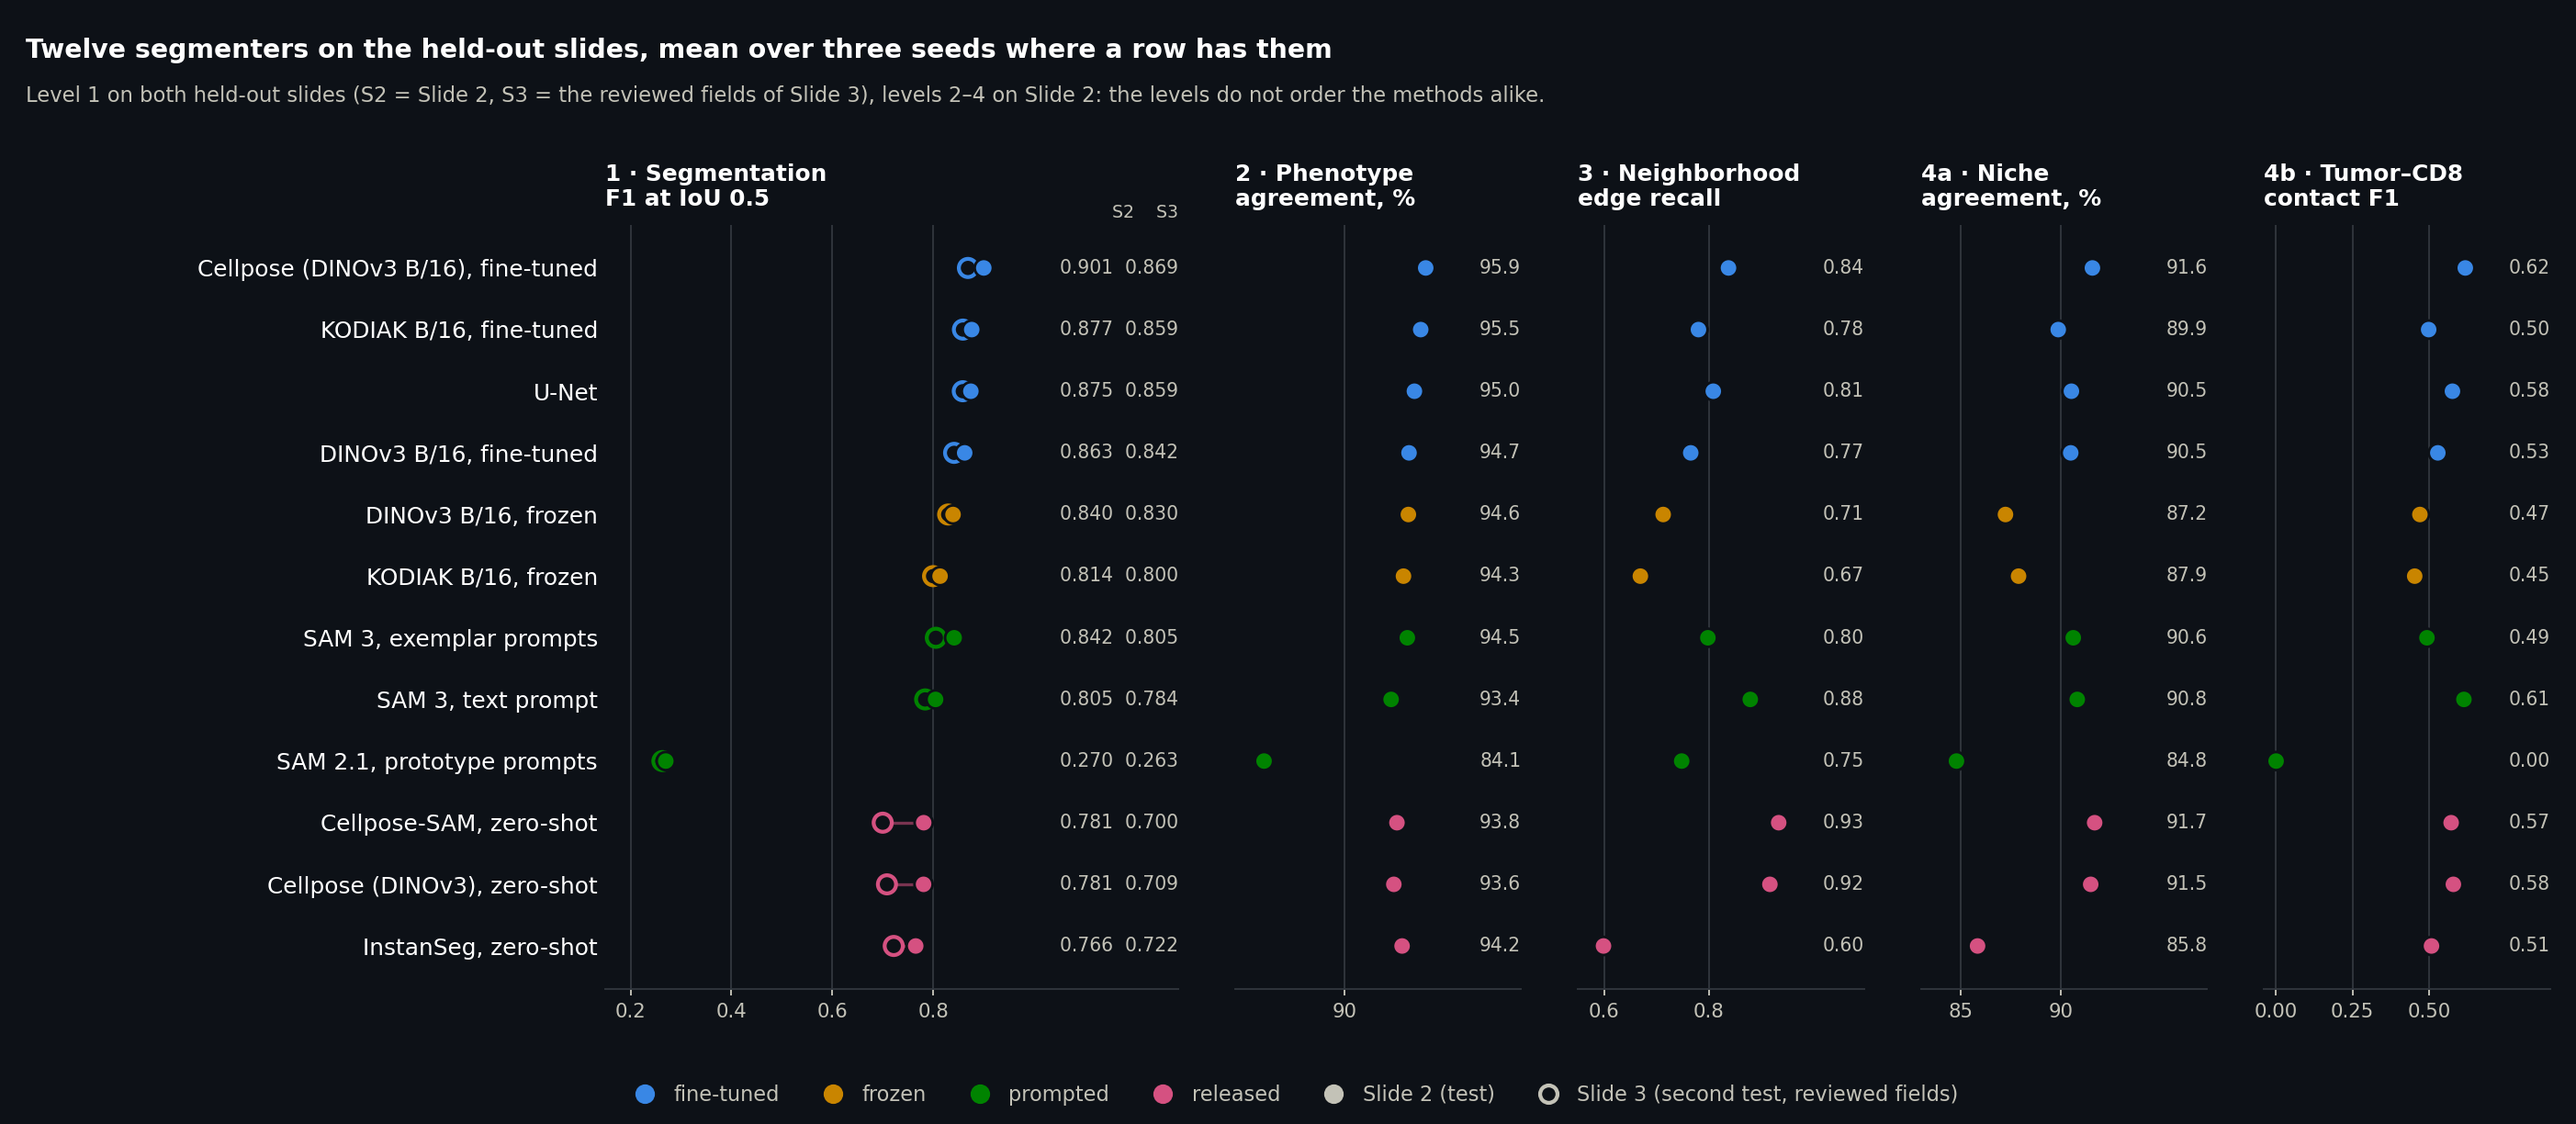
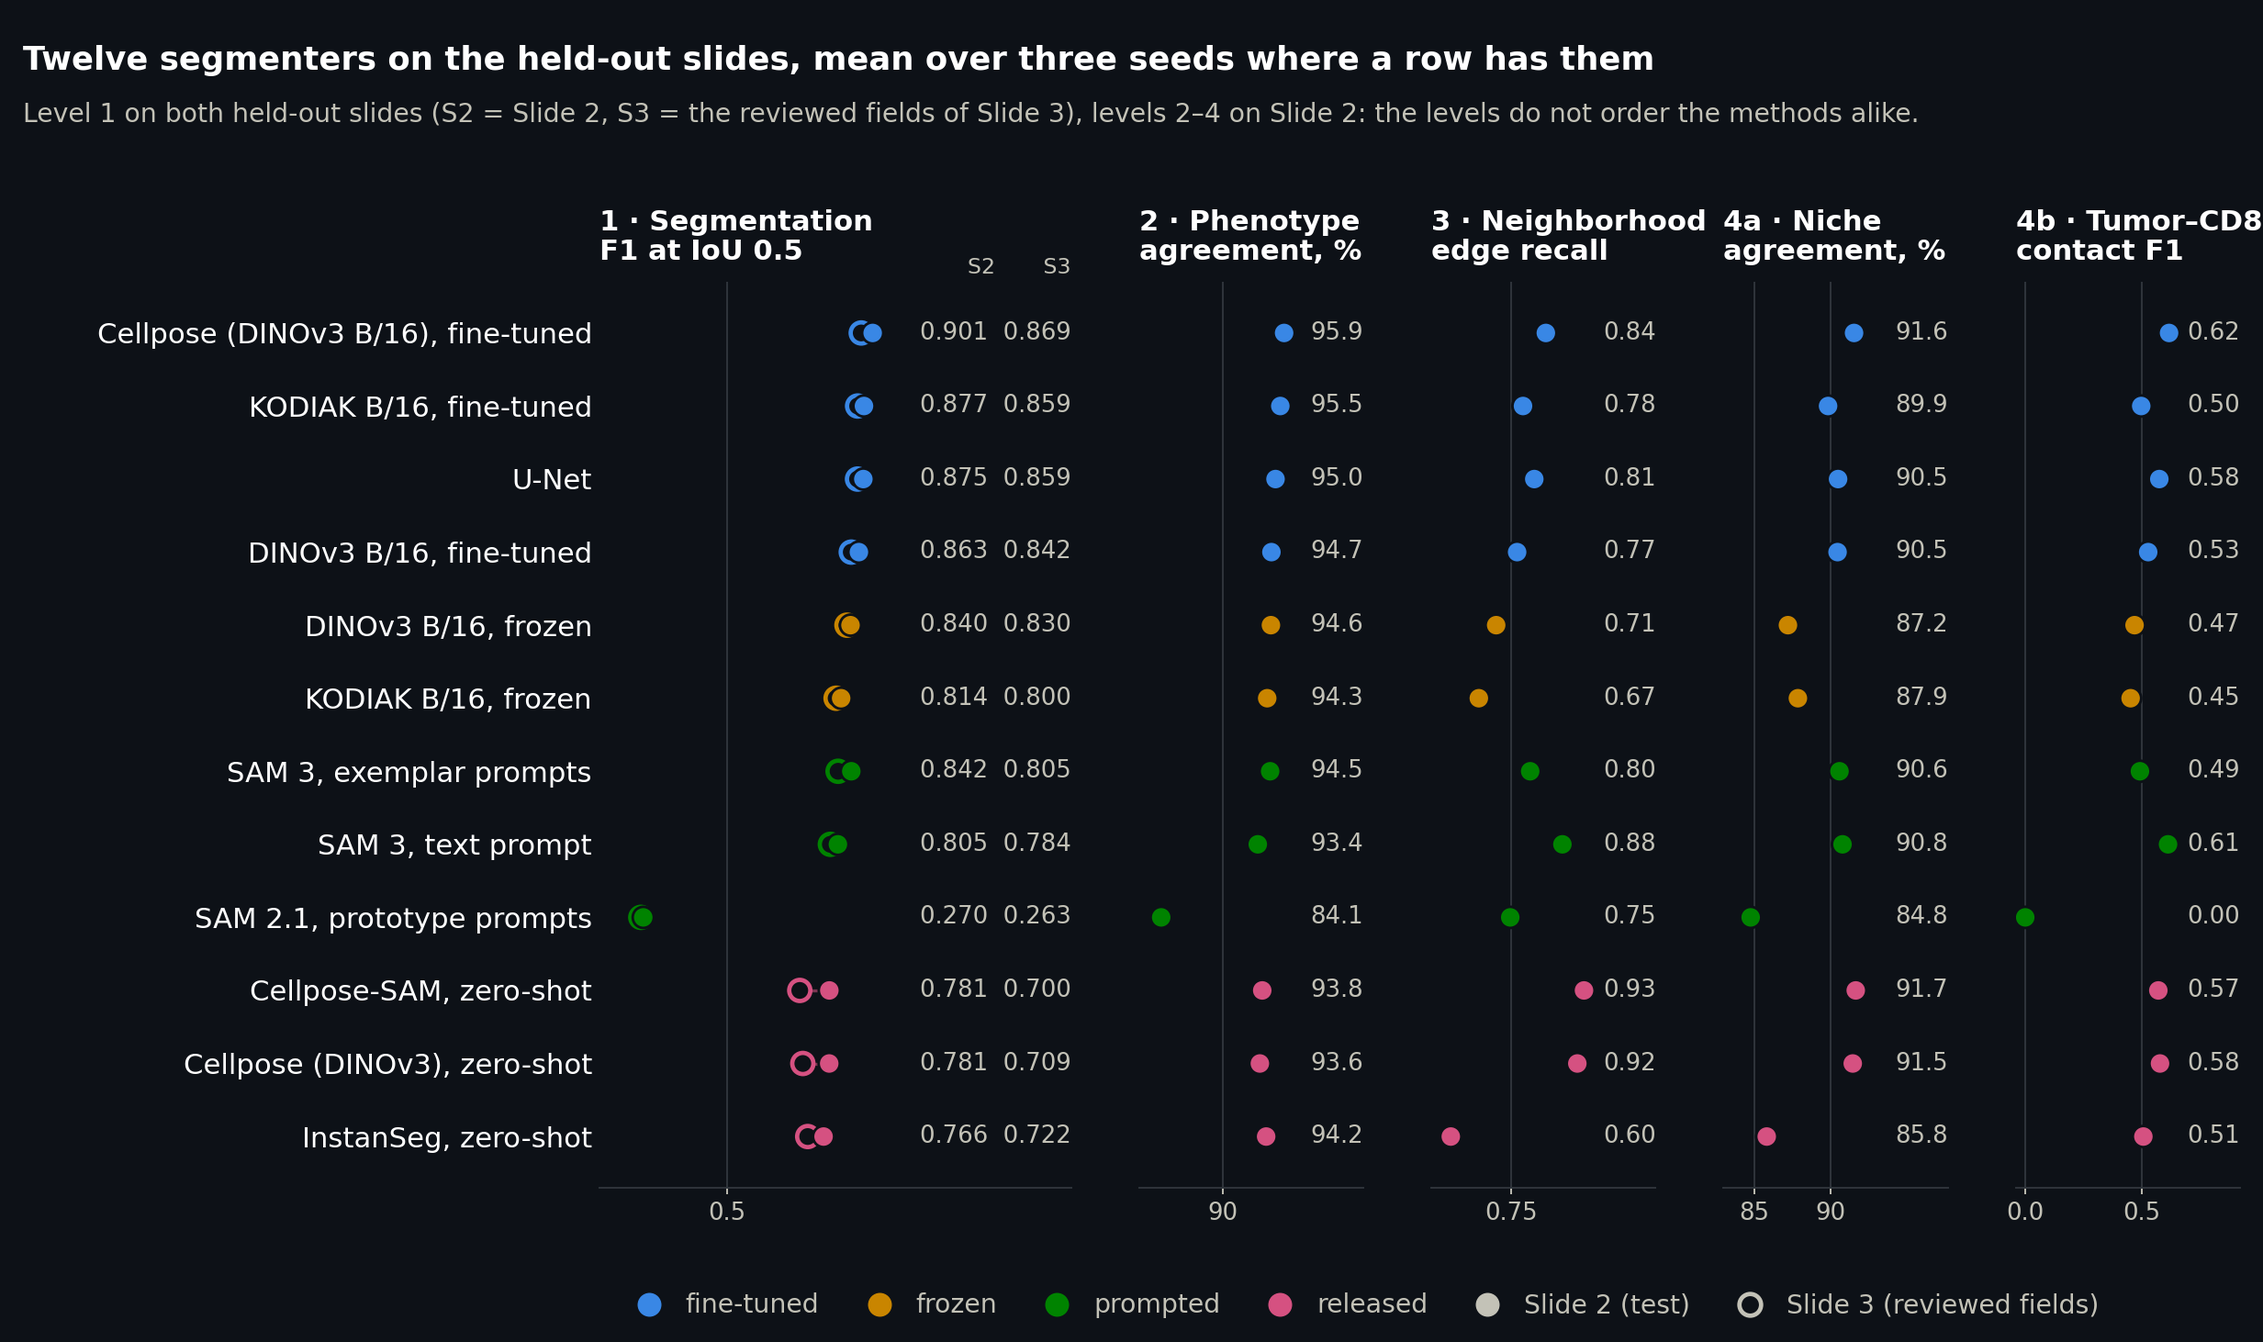
README: grouped data tables; results figure at larger type

diff --git a/scripts/figure_readme_results.py b/scripts/figure_readme_results.py
@@ -53,54 +53,54 @@ def load():
 
 def draw(d, mode):
     t = THEME[mode]
-    plt.rcParams.update({"font.family": "DejaVu Sans", "font.size": 10.5, "axes.edgecolor": t["grid"], "axes.linewidth": 0.8,
+    plt.rcParams.update({"font.family": "DejaVu Sans", "font.size": 13, "axes.edgecolor": t["grid"], "axes.linewidth": 0.8,
                          "xtick.color": t["muted"], "ytick.color": t["ink"], "axes.labelcolor": t["muted"], "text.color": t["ink"]})
     cols = [("f1_s2", "1 · Segmentation\nF1 at IoU 0.5", (0.15, 0.95), "{:.3f}"), ("pheno", "2 · Phenotype\nagreement, %", (82, 98), "{:.1f}"),
             ("edges", "3 · Neighborhood\nedge recall", (0.55, 0.97), "{:.2f}"), ("niche", "4a · Niche\nagreement, %", (83, 94), "{:.1f}"),
             ("contact", "4b · Tumor–CD8\ncontact F1", (-0.04, 0.68), "{:.2f}")]
-    fig = plt.figure(figsize=(16.5, 7.2), dpi=170); fig.patch.set_facecolor(t["surface"])
-    widths = [2.0, 1, 1, 1, 1]; left = 0.235; gap = 0.022; avail = 0.99 - left - gap * (len(cols) - 1); tot = sum(widths)
+    fig = plt.figure(figsize=(14.5, 8.6), dpi=170); fig.patch.set_facecolor(t["surface"])
+    widths = [2.1, 1, 1, 1, 1]; left = 0.265; gap = 0.03; avail = 0.99 - left - gap * (len(cols) - 1); tot = sum(widths)
     y = np.arange(len(d))[::-1]
     x0 = left
     for k, (col, title, lim, fmt) in enumerate(cols):
         w = avail * widths[k] / tot
-        ax = fig.add_axes([x0, 0.12, w, 0.68]); x0 += w + gap
+        ax = fig.add_axes([x0, 0.115, w, 0.675]); x0 += w + gap
         ax.set_facecolor(t["surface"])
         for sp in ("top", "right", "left"): ax.spines[sp].set_visible(False)
         ax.grid(axis="x", color=t["grid"], lw=0.8, zorder=0); ax.set_axisbelow(True)
-        span = lim[1] - lim[0]; pad = 0.42 if col == "f1_s2" else 0.30                     # a value column at the right of each panel
+        span = lim[1] - lim[0]; pad = 0.62 if col == "f1_s2" else 0.34                     # a value column at the right of each panel
         ax.set_xlim(lim[0], lim[1] + pad * span); ax.set_xticks([t for t in ax.get_xticks() if lim[0] <= t <= lim[1]])
         ax.set_ylim(-0.7, len(d) - 0.3); ax.set_yticks(y)
-        ax.set_yticklabels([LABEL[m] for m in d.index] if k == 0 else [""] * len(d), fontsize=10.5)
-        ax.tick_params(axis="y", length=0); ax.tick_params(axis="x", length=3, labelsize=9)
-        ax.set_title(title, loc="left", fontsize=10.5, fontweight="bold", color=t["ink"], pad=9, linespacing=1.15)
+        ax.set_yticklabels([LABEL[m] for m in d.index] if k == 0 else [""] * len(d), fontsize=13)
+        ax.tick_params(axis="y", length=0); ax.tick_params(axis="x", length=3, labelsize=11)
+        ax.set_title(title, loc="left", fontsize=13, fontweight="bold", color=t["ink"], pad=10, linespacing=1.15)
         colors = [t["group"][GROUP[m]] for m in d.index]
         v = d[col].values
         if col == "f1_s2":                                              # slide 2 filled, slide 3 hollow, joined by a hairline
             v3 = d["f1_s3"].values
             for yi, a, b, c in zip(y, v, v3, colors):
                 ax.plot([a, b], [yi, yi], color=c, lw=1.4, alpha=0.55, zorder=2)
-            ax.scatter(v3, y, s=70, facecolor=t["surface"], edgecolor=colors, linewidth=1.8, zorder=3)
-            ax.scatter(v, y, s=70, color=colors, edgecolor=t["surface"], linewidth=1.2, zorder=4)
+            ax.scatter(v3, y, s=95, facecolor=t["surface"], edgecolor=colors, linewidth=2.0, zorder=3)
+            ax.scatter(v, y, s=95, color=colors, edgecolor=t["surface"], linewidth=1.2, zorder=4)
             for yi, a, b in zip(y, v, v3):
-                ax.text(lim[1] + pad * span, yi, f"{a:.3f}  {b:.3f}", va="center", ha="right", fontsize=8.6, color=t["muted"])
-            ax.text(lim[1] + pad * span, len(d) - 0.25, "S2    S3", va="bottom", ha="right", fontsize=8, color=t["muted"])
+                ax.text(lim[1] + pad * span, yi, f"{a:.3f}  {b:.3f}", va="center", ha="right", fontsize=11, color=t["muted"])
+            ax.text(lim[1] + pad * span, len(d) - 0.25, "S2       S3", va="bottom", ha="right", fontsize=10, color=t["muted"])
         else:
-            ax.scatter(v, y, s=70, color=colors, edgecolor=t["surface"], linewidth=1.2, zorder=4)
+            ax.scatter(v, y, s=95, color=colors, edgecolor=t["surface"], linewidth=1.2, zorder=4)
             for yi, a in zip(y, v):
-                ax.text(lim[1] + pad * span, yi, fmt.format(a), va="center", ha="right", fontsize=8.6, color=t["muted"])
+                ax.text(lim[1] + pad * span, yi, fmt.format(a), va="center", ha="right", fontsize=11, color=t["muted"])
     # legend: the four groups + the slide markers
     g = t["group"]
-    handles = [Line2D([], [], marker="o", ls="", ms=8, color=g[k], label=k) for k in ("fine-tuned", "frozen", "prompted", "released")]
-    handles += [Line2D([], [], marker="o", ls="", ms=8, color=t["muted"], label="Slide 2 (test)"),
-                Line2D([], [], marker="o", ls="", ms=8, markerfacecolor=t["surface"], markeredgecolor=t["muted"], markeredgewidth=1.8, label="Slide 3 (second test, reviewed fields)")]
-    leg = fig.legend(handles=handles, loc="lower left", bbox_to_anchor=(0.235, 0.0), ncol=6, frameon=False, fontsize=9.5,
-                     handletextpad=0.4, columnspacing=1.6)
+    handles = [Line2D([], [], marker="o", ls="", ms=10, color=g[k], label=k) for k in ("fine-tuned", "frozen", "prompted", "released")]
+    handles += [Line2D([], [], marker="o", ls="", ms=10, color=t["muted"], label="Slide 2 (test)"),
+                Line2D([], [], marker="o", ls="", ms=10, markerfacecolor=t["surface"], markeredgecolor=t["muted"], markeredgewidth=2.0, label="Slide 3 (reviewed fields)")]
+    leg = fig.legend(handles=handles, loc="lower left", bbox_to_anchor=(0.265, 0.0), ncol=6, frameon=False, fontsize=12,
+                     handletextpad=0.4, columnspacing=1.3)
     for txt in leg.get_texts(): txt.set_color(t["muted"])
-    fig.text(0.01, 0.955, "Twelve segmenters on the held-out slides, mean over three seeds where a row has them", fontsize=12,
+    fig.text(0.01, 0.955, "Twelve segmenters on the held-out slides, mean over three seeds where a row has them", fontsize=15,
              fontweight="bold", color=t["ink"], ha="left", va="center")
     fig.text(0.01, 0.915, "Level 1 on both held-out slides (S2 = Slide 2, S3 = the reviewed fields of Slide 3), levels 2–4 on Slide 2: the levels do not order the methods alike.",
-             fontsize=9.6, color=t["muted"], ha="left", va="center")
+             fontsize=12, color=t["muted"], ha="left", va="center")
     fig.savefig(OUT / f"results_{mode}.png", facecolor=t["surface"]); plt.close(fig)
 
 

diff --git a/README.md b/README.md
@@ -103,16 +103,64 @@ positives.
 </table>
 <p align="center"><sub>CD8 red · PanCK green · DAPI blue. Annotated regions outlined by role (grey training, amber validation, magenta test); * = expert-reviewed; 1 mm scale bars.</sub></p>
 
-| Slide | Role under the protocol | Regions | Cells (HALO) | Reviewed | Flagged <i>wrong</i> | Confirmed | Patches (labeled / unlabeled) |
-|---|---|---|---|---|---|---|---|
-| Slide 1 (SLIDE-0235) | development: pretraining, training, model selection (R14 + R15), gate calibration | 16 | 21,657 | 16 of 16 | 4,668 | 16,985 | 628 / 4,478 |
-| Slide 2 (SLIDE-0236) | test, scored once per finished run | 6 | 7,662 | 6 of 6 | 1,510 | 6,152 | 259 / 4,103 |
-| Slide 3 (SLIDE-0233) | second test, segmentation level | 4 | 3,451 | 3 of 4 | 937 | 1,672 | 72 / — |
+<table align="center">
+  <thead>
+    <tr>
+      <th rowspan="2" align="left">Slide</th>
+      <th rowspan="2" align="left">Role under the protocol</th>
+      <th colspan="2">Regions</th>
+      <th colspan="3">Cells (HALO objects)</th>
+      <th colspan="2">256² patches</th>
+    </tr>
+    <tr>
+      <th>all</th><th>reviewed</th>
+      <th>all</th><th>confirmed</th><th>flagged <i>wrong</i></th>
+      <th>labeled</th><th>unlabeled</th>
+    </tr>
+  </thead>
+  <tbody>
+    <tr>
+      <td><b>Slide 1</b><br><sub>SLIDE-0235</sub></td>
+      <td><b>development</b><br><sub>pretraining · training · model selection (R14, R15) · gate calibration</sub></td>
+      <td align="right">16</td><td align="right">16</td>
+      <td align="right">21,657</td><td align="right">16,985</td><td align="right">4,668</td>
+      <td align="right">628</td><td align="right">4,478</td>
+    </tr>
+    <tr>
+      <td><b>Slide 2</b><br><sub>SLIDE-0236</sub></td>
+      <td><b>test</b><br><sub>all four levels, scored once per finished run</sub></td>
+      <td align="right">6</td><td align="right">6</td>
+      <td align="right">7,662</td><td align="right">6,152</td><td align="right">1,510</td>
+      <td align="right">259</td><td align="right">4,103</td>
+    </tr>
+    <tr>
+      <td><b>Slide 3</b><br><sub>SLIDE-0233</sub></td>
+      <td><b>second test</b><br><sub>segmentation level, immune-rich fields</sub></td>
+      <td align="right">4</td><td align="right">3</td>
+      <td align="right">3,451</td><td align="right">1,672</td><td align="right">937</td>
+      <td align="right">72</td><td align="right">—</td>
+    </tr>
+    <tr>
+      <td><b>Total</b></td><td></td>
+      <td align="right">26</td><td align="right">25</td>
+      <td align="right">32,770</td><td align="right">24,809</td><td align="right">7,115</td>
+      <td align="right">959</td><td align="right">8,581</td>
+    </tr>
+  </tbody>
+</table>
+<p align="center"><sub>Confirmed and flagged cells are those of the reviewed regions; Slide 3's unreviewed field (842 cells) and four Slide 1 contours without a review row are scored nowhere. Unlabeled patches are tissue outside the annotated regions, used for pretraining only.</sub></p>
 
-**Phenotype labels** (never used for segmentation training or scoring): on Slide 1, one 1,024² window tagged exhaustively
-in the annotation tool (1,006 PanCK⁺, 40 T cells, 26 CD4⁺, 12 CD8⁺), which calibrates the gates; on Slide 2, four such
-windows (1,982 PanCK⁺, 188 T cells, 147 CD4⁺, 71 CD8⁺, 80 Treg), held out; on Slide 3, bounding boxes over two reviewed
-fields (756 boxes: CD3⁺, CD4⁺, CD8⁺, FOXP3⁺, PanCK⁺).
+<table align="center">
+  <thead>
+    <tr><th align="left">Phenotype labels</th><th align="left">Slide</th><th align="left">Where</th><th>PanCK⁺</th><th>T cell</th><th>CD4⁺ T</th><th>CD8⁺ T</th><th>Treg</th><th align="left">Used for</th></tr>
+  </thead>
+  <tbody>
+    <tr><td>tags on tool polygons</td><td>1</td><td>one 1,024² window in R1</td><td align="right">1,006</td><td align="right">40</td><td align="right">26</td><td align="right">12</td><td align="right">—</td><td>gate calibration</td></tr>
+    <tr><td>tags on tool polygons</td><td>2</td><td>four 1,024² windows</td><td align="right">1,982</td><td align="right">188</td><td align="right">147</td><td align="right">71</td><td align="right">80</td><td>held out with the slide</td></tr>
+    <tr><td>bounding boxes</td><td>3</td><td>two reviewed fields</td><td align="right">311</td><td align="right">193</td><td align="right">123</td><td align="right">103</td><td align="right">26</td><td>held out with the slide</td></tr>
+  </tbody>
+</table>
+<p align="center"><sub>A label locates a cell; it never defines a boundary, and none of these enter segmentation training or scoring.</sub></p>
 
 **Access.** The slides, annotations and review tables are not distributed with the code: the images are private
 clinical research data. Researchers who wish to use the benchmark should contact **Nevenka Dimitrova**, corresponding
